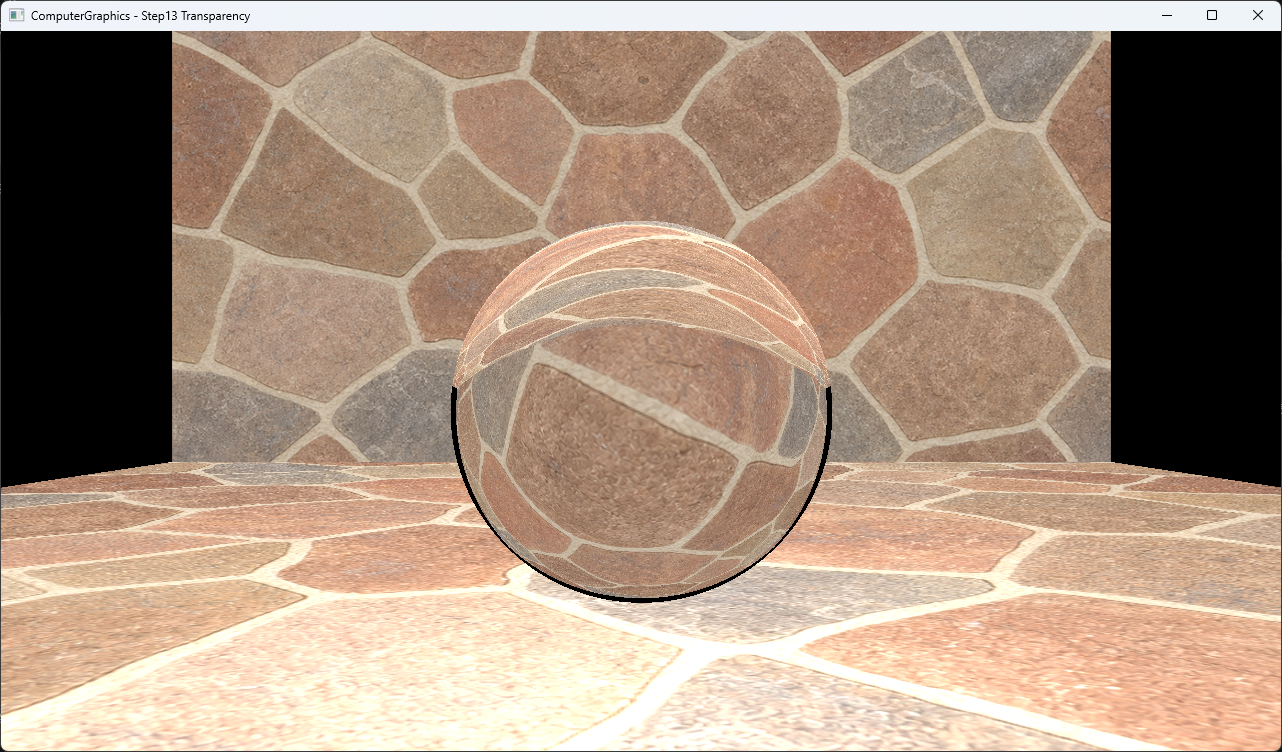
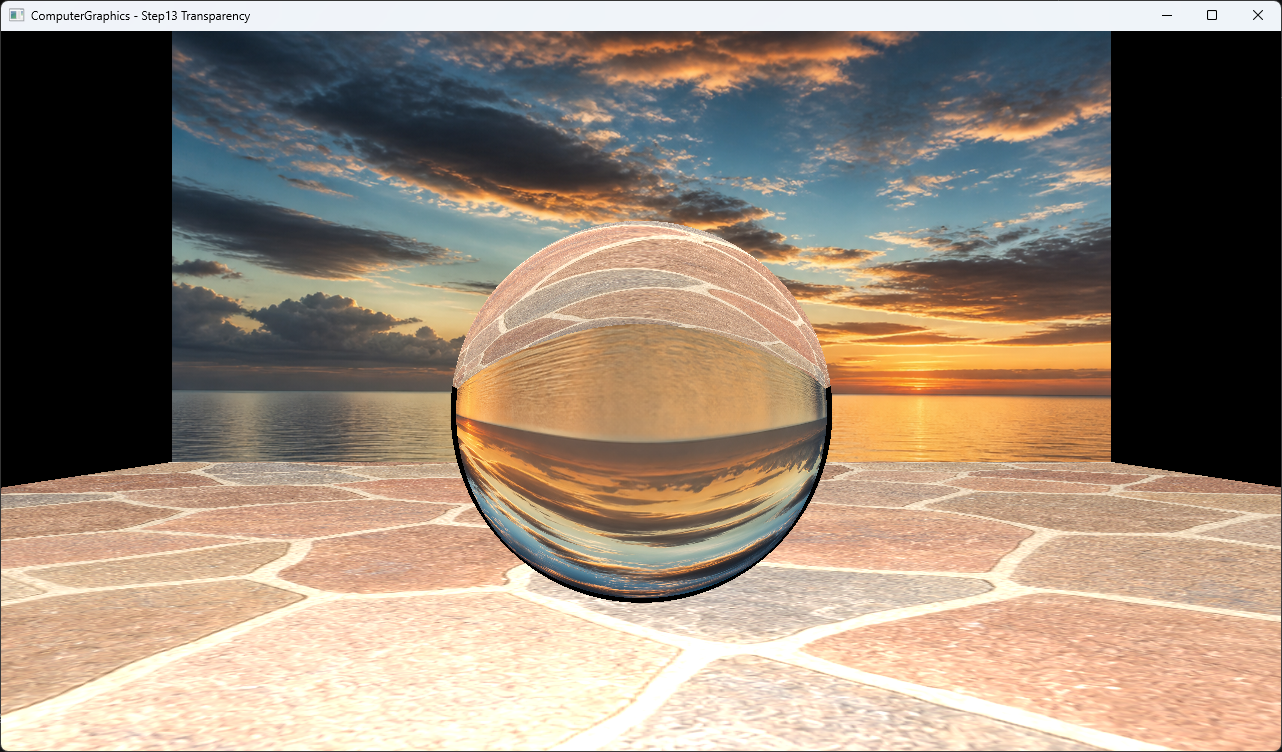
demo: Step13 Transparency 해수면 배경 적용

diff --git a/Part1_Chapter03/03_Raytracing_Step13_Transparency/Raytracer.h b/Part1_Chapter03/03_Raytracing_Step13_Transparency/Raytracer.h
@@ -53,7 +53,7 @@ namespace hlab
             objects.push_back(ground);
 
             auto backgroundTexture = std::make_shared<Texture>(
-                "part1_chapter03_stone_mosaic.png");
+                "part1_chapter03_ocean_sunset.png");
             auto background = std::make_shared<Square>(
                 vec3(-10.0f, 10.0f, 10.0f),
                 vec3(10.0f, 10.0f, 10.0f),

diff --git a/Docs/05_Publication/candidate-list.md b/Docs/05_Publication/candidate-list.md
@@ -22,7 +22,7 @@
 | `Step10 Texturing` Demo bundle | `Part1_Chapter03/03_Raytracing_Step10_Texturing/README.md`, `Docs/03_Demos/Part1_Chapter03/10_Texturing.md`, `Docs/_assets/captures/part1_chapter03_10_texturing.png` | Barycentric UV, CPU bilinear sampling과 Square seam 부재를 사용자 직접 생성 석재 texture로 설명 가능 | 검토 필요 | 외부 image를 실제 생성 입력으로 사용하지 않은 1024×1024 RGB PNG 사용. Debug/Release x64 build/run과 전체 창 screenshot 확인. 입력·capture PNG text/EXIF/XMP 정보와 개인 식별자 없음 | 공개 문장과 code permalink는 GitHub 후보 작성 시 검토 | Demo 등급과 GitHub 게시 여부는 Step4~14 완료 후 판단 |
 | `Step11 Supersampling` Demo bundle | `Part1_Chapter03/03_Raytracing_Step11_Supersampling/README.md`, `Docs/03_Demos/Part1_Chapter03/11_Supersampling.md`, `Docs/_assets/captures/part1_chapter03_11_supersampling.png` | 재귀 2×2 분할, output cell당 64-sample 평균과 point-upscaled 저해상도 trade-off를 설명 가능 | 검토 필요 | Step10 검증 석재 PNG의 동일 바이트 사본 사용. Debug/Release x64 build/run과 전체 창 screenshot 확인. 입력·capture PNG text/EXIF/XMP 정보와 개인 식별자 없음 | 공개 문장과 code permalink는 GitHub 후보 작성 시 검토 | Step10 capture와 순차 비교는 가능하지만 scene parameter도 달라 sampling 단독 A/B로 사용하지 않음 |
 | `Step12 Reflection` Demo bundle | `Part1_Chapter03/03_Raytracing_Step12_Reflection/README.md`, `Docs/03_Demos/Part1_Chapter03/12_Reflection.md`, `Docs/_assets/captures/part1_chapter03_12_reflection.png` | Reflection direction, fixed-depth recursive trace와 local/reflected color 결합을 실제 장면으로 설명 가능 | 검토 필요 | Step10·11 검증 석재 PNG의 동일 바이트 사본 사용. Debug/Release x64 build/run과 전체 창 screenshot 확인. 입력·capture PNG text/EXIF/XMP 정보와 개인 식별자 없음 | 공개 문장과 code permalink는 GitHub 후보 작성 시 검토 | Step11 capture와 순차 비교는 가능하지만 scene·resolution도 달라 reflection 단독 A/B로 사용하지 않음 |
-| `Step13 Transparency` Demo bundle | `Part1_Chapter03/03_Raytracing_Step13_Transparency/README.md`, `Docs/03_Demos/Part1_Chapter03/13_Transparency.md`, `Docs/_assets/captures/part1_chapter03_13_transparency.png` | Enter/exit IOR 전환, recursive refraction과 TIR fallback을 sphere 내부의 background 왜곡으로 설명 가능 | 검토 필요 | Step10~12 검증 석재 PNG의 동일 바이트 사본을 ground와 background에 사용. Debug/Release x64 build/run과 전체 창 screenshot 확인. 입력·capture PNG text/EXIF/XMP 정보와 개인 식별자 없음 | 공개 문장과 code permalink는 GitHub 후보 작성 시 검토 | Step12 capture와 순차 비교는 가능하지만 scene·material·background도 달라 transparency 단독 A/B로 사용하지 않음 |
+| `Step13 Transparency` Demo bundle | `Part1_Chapter03/03_Raytracing_Step13_Transparency/README.md`, `Docs/03_Demos/Part1_Chapter03/13_Transparency.md`, `Docs/_assets/captures/part1_chapter03_13_transparency.png` | Enter/exit IOR 전환, recursive refraction과 TIR fallback을 sphere 내부의 background 왜곡으로 설명 가능 | 검토 필요 | Step10~12 검증 석재 PNG를 ground에 사용하고 사용자 요청으로 생성한 해수면·하늘 PNG를 background에 사용. Debug/Release x64 build/run과 전체 창 screenshot 확인. 입력·capture PNG text/EXIF/XMP 정보와 개인 식별자 없음 | 공개 문장과 code permalink는 GitHub 후보 작성 시 검토 | Step12 capture와 순차 비교는 가능하지만 scene·material·background도 달라 transparency 단독 A/B로 사용하지 않음 |
 
 ## 갱신 기준
 

diff --git a/Docs/05_Publication/redaction-log.md b/Docs/05_Publication/redaction-log.md
@@ -12,7 +12,7 @@
 | RD-004 | `Step10 Texturing` input/result | 출처 불명 texture 교체 | 출처 불명 JPEG를 제거하고 사용자 직접 생성 석재 PNG와 재촬영한 전체 창 capture를 사용 | 완료 | 외부 image 직접 입력·pixel 복제 없음. 실행 입력과 tracked input SHA-256 일치. 입력·capture PNG의 text/EXIF/XMP 정보와 개인 식별자 없음 |
 | RD-005 | `Step11 Supersampling` input/result | 출처 불명 texture 교체 | Step11의 출처 불명 JPEG를 제거하고 Step10에서 검수한 석재 PNG의 동일 바이트 사본과 전체 창 capture를 사용 | 완료 | Step11 입력과 Step10 검증 input의 SHA-256 일치. 입력·capture PNG의 text/EXIF/XMP 정보와 개인 식별자 없음 |
 | RD-006 | `Step12 Reflection` input/result | 출처 불명 texture와 미사용 asset 제거 | Step12의 출처 불명 JPEG와 미사용 background 사본을 제거하고 Step10·11에서 검수한 석재 PNG의 동일 바이트 사본과 전체 창 capture를 사용 | 완료 | Step12 입력과 Step10·11 검증 input의 SHA-256 일치. 입력·capture PNG의 text/EXIF/XMP 정보와 개인 식별자 없음. Step13 asset은 변경하지 않음 |
-| RD-007 | `Step13 Transparency` input/result | 출처 불명 ground·background 교체 | Step13의 출처 불명 JPEG 두 개를 제거하고 Step10~12에서 검수한 석재 PNG의 동일 바이트 사본을 ground·background와 전체 창 capture에 사용 | 완료 | Step13 입력과 Step10~12 검증 input의 SHA-256 일치. 입력·capture PNG의 text/EXIF/XMP 정보와 개인 식별자 없음. Step14 asset은 변경하지 않음 |
+| RD-007 | `Step13 Transparency` input/result | 출처 불명 ground·background 교체 | Step13의 출처 불명 JPEG 두 개를 제거하고 검수한 석재 PNG를 ground에, 사용자 직접 생성 해수면·하늘 PNG를 background에 사용 | 완료 | Ground 입력은 Step10~12 검증 input과 SHA-256이 일치한다. Background는 참고 이미지의 pixel을 직접 복제하지 않은 새 생성 결과다. Background의 C2PA에는 OpenAI 생성 이력만 있고 개인 식별자와 로컬 경로는 없다. 입력·capture의 PNG text/EXIF/XMP 정보와 개인 식별자를 확인했다. Step14 asset은 변경하지 않음 |
 
 ## 유형
 

diff --git a/Docs/02_Verification/Part1_Chapter03/verification-index.md b/Docs/02_Verification/Part1_Chapter03/verification-index.md
@@ -19,7 +19,7 @@
 | `03_Raytracing_Step10_Texturing` | `Part1_Chapter03/03_Raytracing_Step10_Texturing/03_Raytracing_Step10_Texturing.sln` | 성공 | 성공 | 성공 | 성공 | 현재 확인 | 완료 | 확보 | 2026-07-31 project 폴더 CWD에서 shader·사용자 직접 생성 석재 PNG load, 공개 application title, 자연석 mapping·bilinear sampling·Square seam 부재와 전체 창 screenshot 확인 |
 | `03_Raytracing_Step11_Supersampling` | `Part1_Chapter03/03_Raytracing_Step11_Supersampling/03_Raytracing_Step11_Supersampling.sln` | 성공 | 성공 | 성공 | 성공 | 현재 확인 | 완료 | 확보 | 2026-07-31 project 폴더 CWD에서 shader·사용자 직접 생성 석재 PNG load, 공개 application title, 64-sample 평균과 160×90 point-upscaled 전체 창 screenshot 확인 |
 | `03_Raytracing_Step12_Reflection` | `Part1_Chapter03/03_Raytracing_Step12_Reflection/03_Raytracing_Step12_Reflection.sln` | 성공 | 성공 | 성공 | 성공 | 현재 확인 | 완료 | 확보 | 2026-07-31 project 폴더 CWD에서 shader·사용자 직접 생성 석재 PNG load, 공개 application title, recursive reflection과 전체 창 screenshot 확인 |
-| `03_Raytracing_Step13_Transparency` | `Part1_Chapter03/03_Raytracing_Step13_Transparency/03_Raytracing_Step13_Transparency.sln` | 성공 | 성공 | 성공 | 성공 | 현재 확인 | 완료 | 확보 | 2026-07-31 project 폴더 CWD에서 shader·사용자 직접 생성 석재 PNG load, 공개 application title, air/glass refraction과 전체 창 screenshot 확인 |
+| `03_Raytracing_Step13_Transparency` | `Part1_Chapter03/03_Raytracing_Step13_Transparency/03_Raytracing_Step13_Transparency.sln` | 성공 | 성공 | 성공 | 성공 | 현재 확인 | 완료 | 확보 | 2026-07-31 project 폴더 CWD에서 shader·사용자 직접 생성 석재 ground와 해수면·하늘 background PNG load, 공개 application title, air/glass refraction과 전체 창 screenshot 확인 |
 | `03_Raytracing_Step14_CubeEnvironment` | `Part1_Chapter03/03_Raytracing_Step14_CubeEnvironment/03_Raytracing_Step14_CubeEnvironment.sln` | 성공 | 성공 | 성공 | 성공 | 과거 확인 | 필요 | 미확인 | 문서화 이전 확인 |
 
 ## 갱신 기준

diff --git a/Part1_Chapter03/03_Raytracing_Step13_Transparency/README.md b/Part1_Chapter03/03_Raytracing_Step13_Transparency/README.md
@@ -24,7 +24,7 @@
 | `Raytracer.h` | Transparent sphere scene, air/glass IOR 전환과 recursive reflection/refraction |
 | `Object.h` | Reflection과 transparency material weight |
 | `Sphere.h`, `Square.h`, `Triangle.h` | Primitive intersection, outward normal과 UV 계산 |
-| `Texture.cpp`, `Texture.h` | 석재 PNG load와 bilinear sampling |
+| `Texture.cpp`, `Texture.h` | PNG texture load와 bilinear sampling |
 | `Example.h` | CPU RGBA32F buffer, dynamic texture upload와 full-screen draw |
 | `VS.hlsl`, `PS.hlsl` | CPU 결과 canvas texture 표시 |
 
@@ -41,14 +41,15 @@ Transparent sphere의 transparency는 1.0이고 reflection은 0이므로 local P
 | Solution | 존재 | `03_Raytracing_Step13_Transparency.sln` |
 | Debug x64 build/run | 성공 | project 폴더를 working directory로 사용 |
 | Release x64 build/run | 성공 | project 폴더를 working directory로 사용 |
-| Input texture | 포함 | `part1_chapter03_stone_mosaic.png`, Step10~12 검증 asset과 동일 SHA-256 |
+| Ground texture | 포함 | `part1_chapter03_stone_mosaic.png`, Step10~12 검증 asset과 동일 SHA-256 |
+| Background texture | 포함 | `part1_chapter03_ocean_sunset.png`, 사용자 요청으로 생성한 해수면·하늘 asset |
 | Capture/Result | 확보 | Sphere 내부의 background 왜곡과 경계 굴절 확인 |
 
 ## Capture/Result
 
 ![Step13 Transparency result](../../Docs/_assets/captures/part1_chapter03_13_transparency.png)
 
-Sphere 내부에서 background의 석재 줄눈이 확대되고 휘어지며, 상단과 하단의 겹친 경계는 ray가 sphere의 진입·이탈 surface를 통과한 결과를 보여준다.
+Sphere 내부에서 background의 수평선과 구름, 수면 반사가 확대되고 휘어진다. 상단과 하단의 겹친 경계는 ray가 sphere의 진입·이탈 surface를 통과한 결과를 보여준다.
 
 ## Limitations
 

diff --git a/Docs/_assets/captures/README.md b/Docs/_assets/captures/README.md
@@ -48,7 +48,7 @@ part2_chapter04_depth-buffer.png
 | `part1_chapter03_10_texturing.png` | screenshot | `Part1_Chapter03/03_Raytracing_Step10_Texturing` | 확보 | Release x64 전체 application window에서 사용자 직접 생성 석재 texture의 mapping·보간·seam 부재 확인 |
 | `part1_chapter03_11_supersampling.png` | screenshot | `Part1_Chapter03/03_Raytracing_Step11_Supersampling` | 확보 | Release x64 전체 application window에서 160×90 grid의 64-sample 평균과 8배 point upscale 확인 |
 | `part1_chapter03_12_reflection.png` | screenshot | `Part1_Chapter03/03_Raytracing_Step12_Reflection` | 확보 | Release x64 전체 application window에서 ground와 blue sphere의 recursive reflection 확인 |
-| `part1_chapter03_13_transparency.png` | screenshot | `Part1_Chapter03/03_Raytracing_Step13_Transparency` | 확보 | Release x64 전체 application window에서 sphere 내부의 background 확대·왜곡과 enter/exit 경계 확인 |
+| `part1_chapter03_13_transparency.png` | screenshot | `Part1_Chapter03/03_Raytracing_Step13_Transparency` | 확보 | Release x64 전체 application window에서 sphere 내부의 해수면·하늘 background 왜곡과 enter/exit 경계 확인 |
 
 ## 승격 체크
 

diff --git a/Docs/03_Demos/capture-plan.md b/Docs/03_Demos/capture-plan.md
@@ -124,7 +124,7 @@ portfolio_raytracer_reflection.png
 - Step10 Texturing은 사용자 직접 생성 석재 texture를 적용해 자연석 mapping·bilinear sampling·Square seam 부재를 확인했다.
 - Step11 Supersampling은 동일 석재 texture를 사용해 160×90 output cell의 64-sample 평균과 8배 point upscale을 확인했다.
 - Step12 Reflection은 동일 석재 texture를 사용해 red sphere의 ground와 blue sphere reflection을 확인했다.
-- Step13 Transparency는 동일 석재 texture를 ground와 background에 사용해 sphere 내부의 확대·왜곡과 enter/exit 경계를 확인했다.
+- Step13 Transparency는 석재 ground와 해수면·하늘 background를 사용해 sphere 내부의 수평선·수면 왜곡과 enter/exit 경계를 확인했다.
 - Step14는 build/run과 문서화를 완료한 뒤 capture 필요성을 판단한다.
 - 각 Step은 독립 상세 Demo를 기본으로 하며 Chapter 전체를 하나의 Demo로 합치지 않는다.
 - 최소·대표·선택 등급은 Step4~14 상세 Demo가 완료된 뒤 확정한다.

diff --git a/Docs/04_WorkLogs/work-units/WU-Part1.md b/Docs/04_WorkLogs/work-units/WU-Part1.md
@@ -23,7 +23,7 @@
 | README 계층 | 확인 | Root README는 portfolio archive 첫 화면으로, Chapter/Example README는 각 계층 정본으로 정리했다. |
 | Remote PR | Merged | PR #8을 일반 merge commit `e14f5e3`으로 병합했다. |
 | Pilot 게시 후보 동기화 | 완료 | PR #10 후처리에서 tracked GitHub 후보와 원격 객체를 동기화했다. |
-| Chapter03 순차 작업 | 진행 중 | Step4 DrawingSphere부터 Step13 Transparency까지 build/run, README·Topic과 독립 상세 Demo를 완료했다. Step10~13은 사용자 직접 생성 석재 texture와 전체 창 capture를 사용한다. |
+| Chapter03 순차 작업 | 진행 중 | Step4 DrawingSphere부터 Step13 Transparency까지 build/run, README·Topic과 독립 상세 Demo를 완료했다. Step10~12와 Step13 ground는 사용자 직접 생성 석재 texture를 사용하고 Step13 background는 사용자 직접 생성 해수면·하늘 texture를 사용한다. |
 
 ## 02_Bloom 작업 요약
 

diff --git a/Part1_Chapter03/README.md b/Part1_Chapter03/README.md
@@ -18,7 +18,7 @@
 | Import status | Step4~14 반영 |
 | Public readiness | Step4~13 검토 필요, Step14 미판정 |
 | Build/run status | Step4~13 현재 확인, Step14 과거 확인 |
-| Texture/environment asset | Step10~13 사용자 직접 생성 석재 texture 적용, Step14 environment asset은 별도 검토 |
+| Texture/environment asset | Step10~12와 Step13 ground에 사용자 직접 생성 석재 texture 적용, Step13 background에 사용자 직접 생성 해수면·하늘 texture 적용, Step14 environment asset은 별도 검토 |
 | Verification | [Part1 Chapter03 Verification](../Docs/02_Verification/Part1_Chapter03/verification-index.md) |
 | Demo | [Part1 Chapter03 Demo Index](../Docs/03_Demos/Part1_Chapter03/demo-index.md) |
 | Topic | [Ray Tracing Topics](../Docs/01_Topics/RayTracing/README.md), [Lighting And Shading Topics](../Docs/01_Topics/LightingAndShading/README.md), [Shadow Topics](../Docs/01_Topics/Shadows/README.md) |
